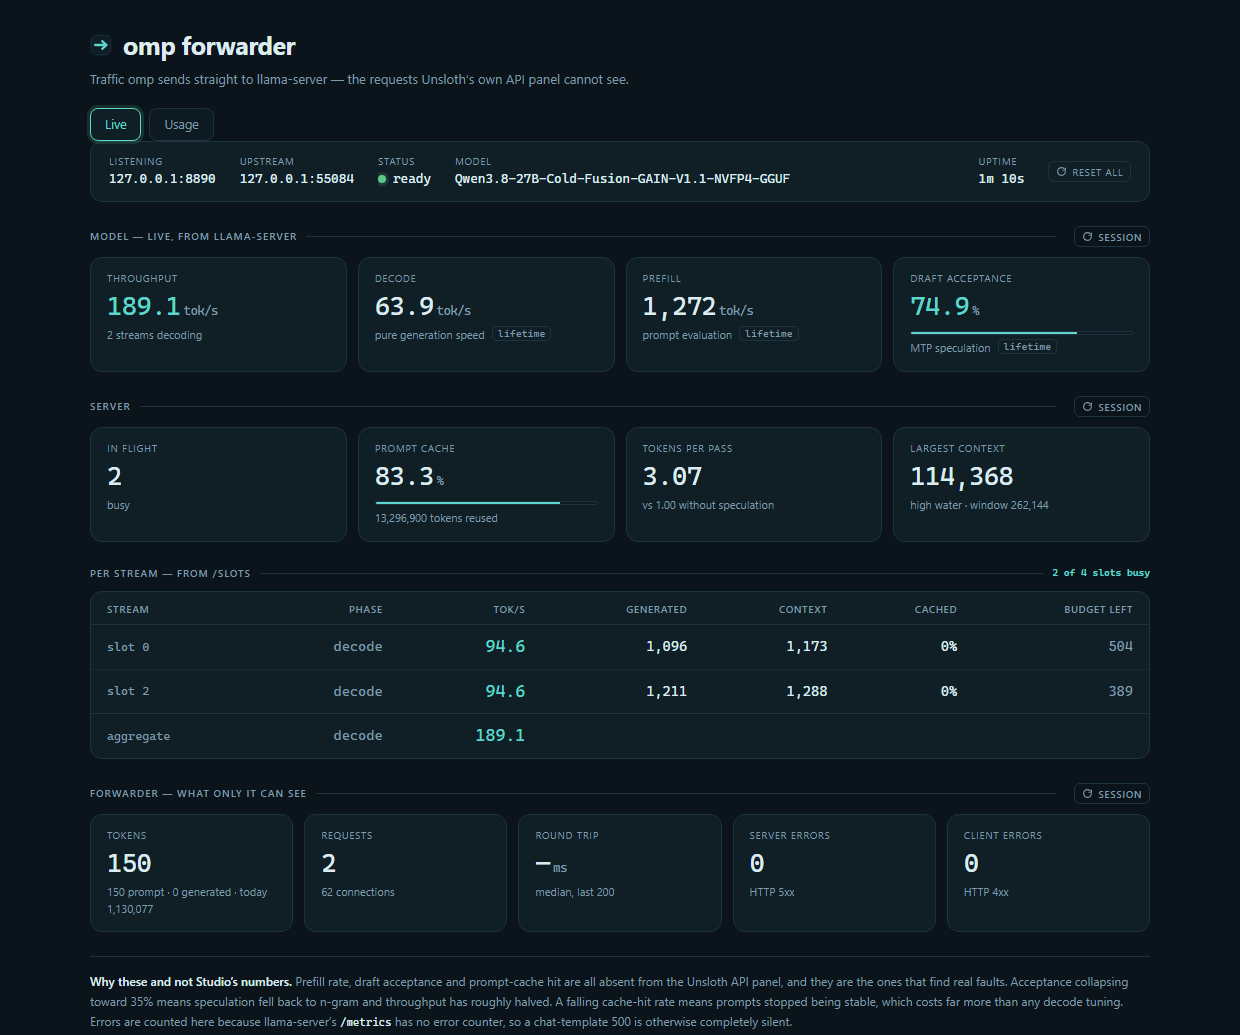
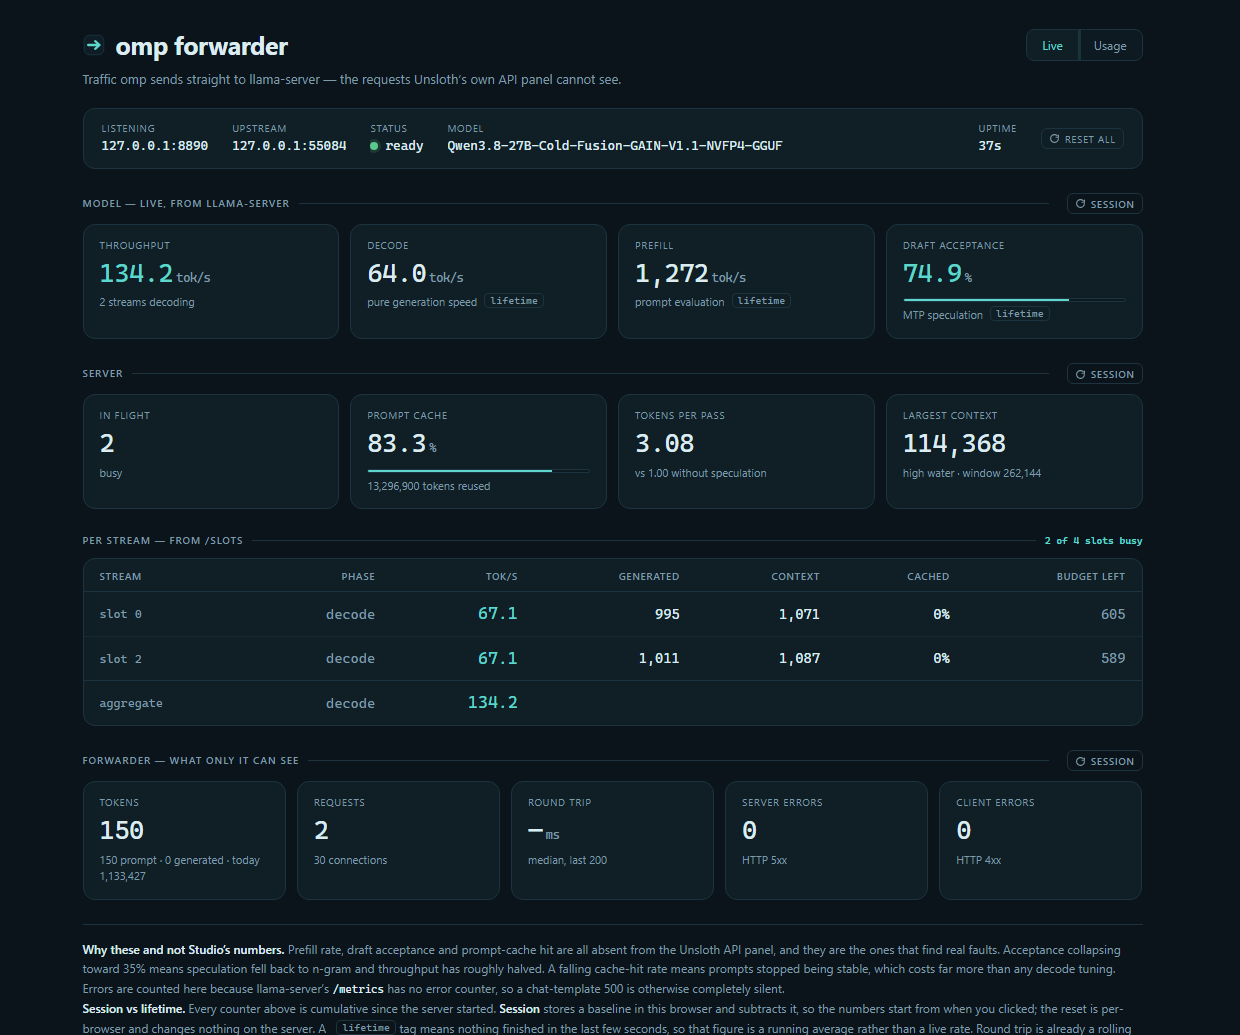
Make the Live/Usage switch stop moving the page
The switch was its own row, sitting at a different height on each page, and the two pages used different container widths (1060 vs 880) and different body padding. Switching therefore shifted the layout both down and sideways.

Now: one segmented control on the title line, an identical header block on both pages, matching wrap width and padding, and scrollbar-gutter:stable so a short page cannot slide the layout across either. Switching changes the highlight and the content below the subtitle, nothing else.

Screenshots regenerated from the live forwarder.

diff --git a/src/omp_forwarder/usage.py b/src/omp_forwarder/usage.py
@@ -34,22 +34,35 @@ PAGE = r"""<!doctype html>
   --mono:ui-monospace,"Cascadia Mono","SF Mono",Menlo,Consolas,monospace;
 }
 *{box-sizing:border-box}
-body{margin:0;background:var(--bg);color:var(--ink);font:14px/1.5
-  ui-sans-serif,"Segoe UI",Helvetica,Arial,sans-serif;-webkit-font-smoothing:antialiased}
-.wrap{max-width:880px;margin:0 auto;padding:26px 22px 60px}
-h1{font-size:19px;margin:0 0 3px;font-weight:600}
+/* Reserve the scrollbar even when the page is short, so switching
+   between the two pages cannot shift the layout sideways. */
+html{scrollbar-gutter:stable}
+/* Body padding and wrap width match the live dashboard exactly. They used to
+   differ, and switching pages then slid the whole layout sideways. */
+body{margin:0;background:var(--bg);color:var(--ink);
+  font:14px/1.5 ui-sans-serif,-apple-system,"Segoe UI",system-ui,sans-serif;
+  padding:26px 24px 40px;-webkit-font-smoothing:antialiased}
+.wrap{max-width:1060px;margin:0 auto}
+/* Deliberately identical to the live dashboard's header: same title, same
+   mark, same switch in the same place. Switching pages then moves nothing on
+   screen except which tab is lit. */
+h1{margin:0;font-size:25px;letter-spacing:-.02em;font-weight:650;
+  display:flex;align-items:center;gap:11px}
+.mark{width:22px;height:22px;flex:none}
+.head{display:flex;align-items:center;justify-content:space-between;gap:18px}
+.tabs{display:flex;border:1px solid var(--line);border-radius:8px;
+  overflow:hidden;background:var(--panel2);flex:none}
+.tabs a{color:var(--dim);text-decoration:none;font-size:12px;padding:6px 15px;
+  line-height:1.5}
+.tabs a+a{border-left:1px solid var(--line)}
+.tabs a:hover{color:var(--ink)}
+.tabs a.on{color:var(--teal);background:var(--panel)}
 h2{font-size:11px;letter-spacing:.12em;text-transform:uppercase;color:var(--dim);
   font-weight:600;margin:30px 0 12px;display:flex;align-items:center;gap:12px}
 h2 .rule{flex:1;height:1px;background:var(--line)}
 h2 .note{color:var(--dim);font-weight:400;letter-spacing:0;text-transform:none;font-size:11.5px}
-.sub{color:var(--dim);font-size:12.5px;margin:0 0 15px}
-/* Same nav as the live dashboard, so the two pages read as one thing. */
-.tabs{display:flex;gap:8px;margin:0 0 24px}
-.tabs a{color:var(--dim);text-decoration:none;font-size:12.5px;padding:6px 14px;
-  border:1px solid var(--line);border-radius:8px;background:var(--panel2)}
-.tabs a:hover{color:var(--ink);border-color:#2a4a58}
-.tabs a.on{color:var(--teal);border-color:var(--teal);background:var(--panel)}
-.grid{display:grid;gap:11px;grid-template-columns:repeat(auto-fit,minmax(170px,1fr))}
+.sub{margin:5px 0 20px;color:var(--dim);font-size:13px}
+.grid{display:grid;gap:11px;grid-template-columns:repeat(auto-fit,minmax(180px,1fr))}
 .card{background:var(--panel);border:1px solid var(--line);border-radius:12px;
   padding:13px 15px 14px}
 .k{font-size:9.5px;letter-spacing:.1em;color:var(--dim);text-transform:uppercase}
@@ -96,9 +109,17 @@ tr.na td{color:var(--dim)}
 body.stale .wrap{opacity:.45;transition:opacity .3s}
 </style>
 <div class="wrap">
-<h1>omp forwarder &mdash; usage</h1>
-<p class="sub">What the local model did instead of a paid API.</p>
-<div class="tabs"><a href="/__stats">Live</a><a class="on" href="/__usage">Usage</a></div>
+<div class="head">
+<h1>
+<svg class="mark" viewBox="0 0 24 24" aria-hidden="true">
+  <rect x="1.3" y="1.3" width="21.4" height="21.4" rx="5.8" fill="#0f1e26" stroke="#1d3440"/>
+  <path d="M5.6 12h12.2M13.3 7.8L18.1 12l-4.8 4.2" fill="none" stroke="#5ed6cb"
+        stroke-width="2.5" stroke-linecap="round" stroke-linejoin="round"/>
+</svg>
+omp forwarder</h1>
+<nav class="tabs"><a href="/__stats">Live</a><a class="on" href="/__usage">Usage</a></nav>
+</div>
+<div class="sub">What the local model did instead of a paid API &mdash; the tokens you did not buy.</div>
 
 <h2>Today<span class="rule"></span><span class="note" id="day"></span></h2>
 <div class="grid">

diff --git a/src/omp_forwarder/stats.py b/src/omp_forwarder/stats.py
@@ -198,6 +198,9 @@ PAGE = r"""<!doctype html>
   --mono:ui-monospace,"Cascadia Mono","SF Mono",Menlo,Consolas,monospace;
 }
 *{box-sizing:border-box}
+/* Reserve the scrollbar even when the page is short, so switching
+   between the two pages cannot shift the layout sideways. */
+html{scrollbar-gutter:stable}
 body{margin:0;background:var(--bg);color:var(--ink);
   font:14px/1.5 ui-sans-serif,-apple-system,"Segoe UI",system-ui,sans-serif;
   padding:26px 24px 40px;-webkit-font-smoothing:antialiased}
@@ -214,13 +217,16 @@ h1{margin:0;font-size:25px;letter-spacing:-.02em;font-weight:650;
 .bv{font-family:var(--mono);font-size:13px;overflow:hidden;text-overflow:ellipsis;
   white-space:nowrap}
 .dot{width:8px;height:8px;border-radius:50%;display:inline-block;margin-right:7px}
-/* Two pages, one nav. The usage page is a click away rather than a URL you
-   have to remember. */
-.tabs{display:flex;gap:8px;margin:15px 0 0}
-.tabs a{color:var(--dim);text-decoration:none;font-size:12.5px;padding:6px 14px;
-  border:1px solid var(--line);border-radius:8px;background:var(--panel2)}
-.tabs a:hover{color:var(--ink);border-color:#2a4a58}
-.tabs a.on{color:var(--teal);border-color:var(--teal);background:var(--panel)}
+/* Two pages, one nav. It rides on the title line and both pages carry an
+   identical header, so switching moves nothing on screen but the highlight. */
+.head{display:flex;align-items:center;justify-content:space-between;gap:18px}
+.tabs{display:flex;border:1px solid var(--line);border-radius:8px;
+  overflow:hidden;background:var(--panel2);flex:none}
+.tabs a{color:var(--dim);text-decoration:none;font-size:12px;padding:6px 15px;
+  line-height:1.5}
+.tabs a+a{border-left:1px solid var(--line)}
+.tabs a:hover{color:var(--ink)}
+.tabs a.on{color:var(--teal);background:var(--panel)}
 .on{background:var(--green);box-shadow:0 0 0 3px rgba(92,201,140,.16)}
 .off{background:var(--red);box-shadow:0 0 0 3px rgba(226,104,95,.16)}
 .grid{display:grid;gap:11px;grid-template-columns:repeat(auto-fit,minmax(180px,1fr))}
@@ -285,6 +291,7 @@ h2 .rule{flex:1;height:1px;background:var(--line)}
   </symbol>
 </svg>
 <div class="wrap">
+<div class="head">
 <h1>
 <svg class="mark" viewBox="0 0 24 24" aria-hidden="true">
   <rect x="1.3" y="1.3" width="21.4" height="21.4" rx="5.8" fill="#0f1e26" stroke="#1d3440"/>
@@ -292,8 +299,9 @@ h2 .rule{flex:1;height:1px;background:var(--line)}
         stroke-width="2.5" stroke-linecap="round" stroke-linejoin="round"/>
 </svg>
 omp forwarder</h1>
+<nav class="tabs"><a class="on" href="/__stats">Live</a><a href="/__usage">Usage</a></nav>
+</div>
 <div class="sub">Traffic omp sends straight to llama-server &mdash; the requests Unsloth&rsquo;s own API panel cannot see.</div>
-<div class="tabs"><a class="on" href="/__stats">Live</a><a href="/__usage">Usage</a></div>
 
 <div class="bar">
   <div class="bit"><span class="bk">Listening</span><span class="bv" id="listen">&mdash;</span></div>

diff --git a/README.md b/README.md
@@ -132,7 +132,7 @@ completely silent.
 **Throughput** sums the per-stream decode rates rather than differencing
 `tokens_predicted_total`, which only moves when a request *completes* — a
 1,932-token reply landing inside one 3-second poll once read as 648 tok/s.
-In the screenshot above it reads 189.1 tok/s, matching the per-stream
+In the screenshot above it reads 134.2 tok/s, matching the per-stream
 aggregate of two concurrent requests rather than spiking off a completion.
 
 Every `llama-server` counter is cumulative since the server started, which is
@@ -162,8 +162,10 @@ decode rate would produce a number that means nothing.
 ## The usage page
 
 `http://127.0.0.1:8890/__usage` answers a different question: how much work
-went to the local model instead of a paid API. Both pages carry a **Live /
-Usage** switch, and the tray menu opens either one.
+went to the local model instead of a paid API. Both pages carry the same
+**Live / Usage** switch on the title line, over an identical header and page
+width, so switching moves nothing on screen but the highlight. The tray menu
+opens either one.
 
 ![The usage page at /__usage](assets/usage.png)
 
